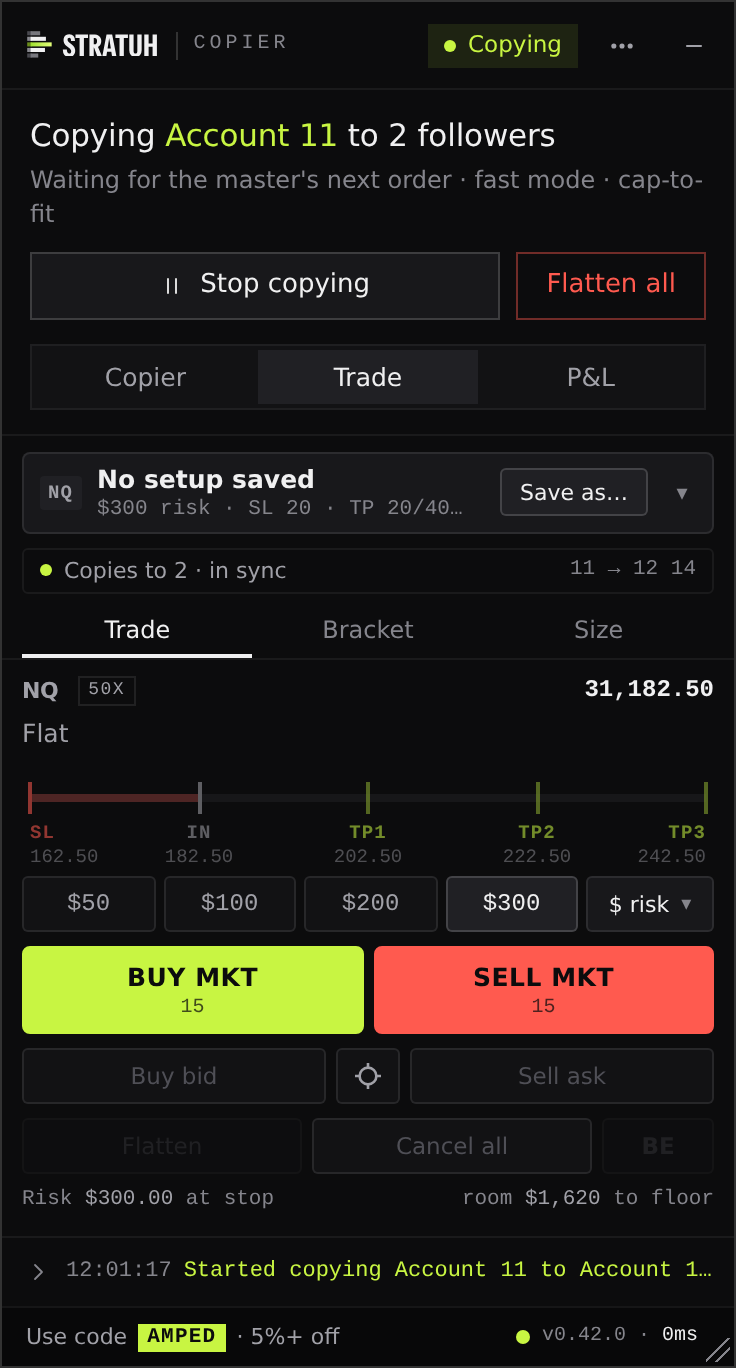
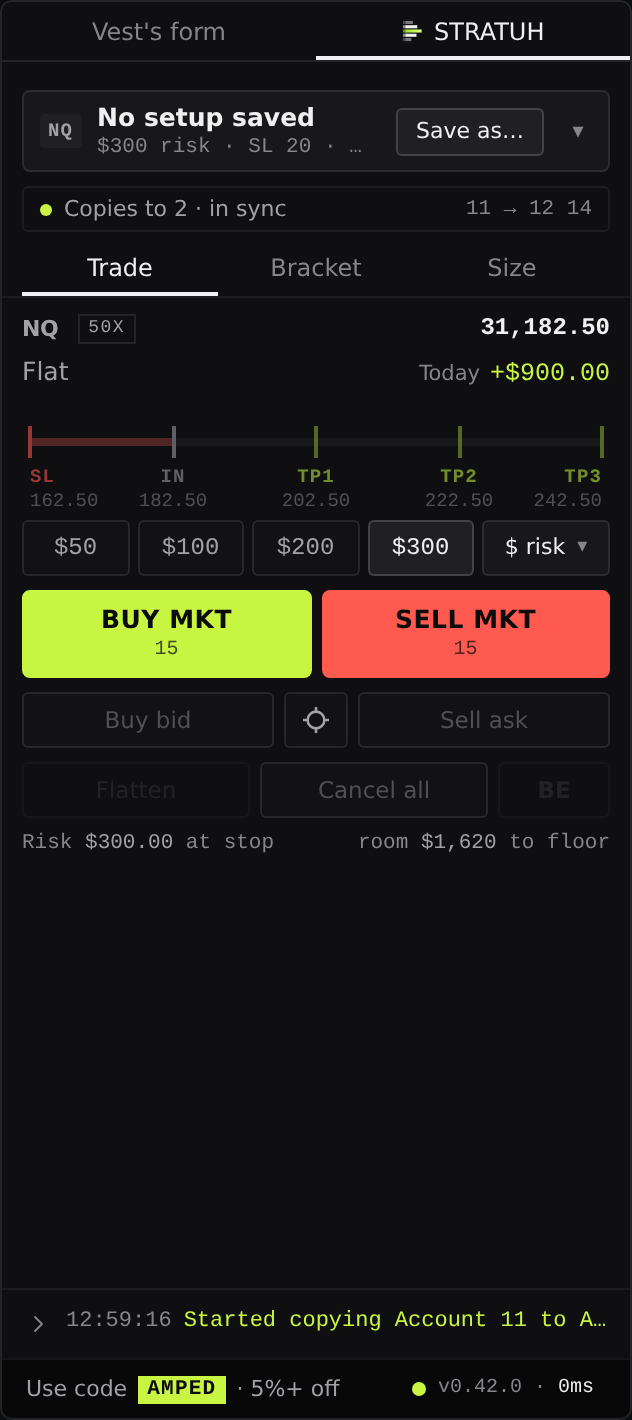
Docs update

diff --git a/docs/tutorial/index.html b/docs/tutorial/index.html
@@ -146,10 +146,10 @@ dd { margin: 0; font-size: 15.5px; }
 <header class="top">
   <div class="brand"><svg width="22" height="22" viewBox="0 0 24 24" aria-hidden="true"><defs><linearGradient id="poc" x1="0" x2="1"><stop offset="0" stop-color="#9fe02f"/><stop offset="1" stop-color="#e4ff7a"/></linearGradient></defs><rect x="1" y="1" width="10" height="3.4" fill="#77777d"/><rect x="1" y="5.65" width="16" height="3.4" fill="currentColor"/><rect x="1" y="10.3" width="22" height="3.4" fill="url(#poc)"/><rect x="1" y="14.95" width="15" height="3.4" fill="currentColor"/><rect x="1" y="19.6" width="8" height="3.4" fill="#77777d"/></svg><div class="eyebrow">[ Tampermonkey userscript · Vest Markets ]</div></div>
   <h1>STRATUH Copier</h1>
-  <p class="lede">Trade one Vest account and have the same trade placed on your other accounts, live, from inside the Vest page. It also adds a Trade tab where you set your stop and targets in points. Formerly Vest Copier: same script, same link, new look.</p>
-  <div class="video"><iframe src="https://www.youtube-nocookie.com/embed/mFJGsJ0IInY" title="STRATUH Copier tutorial video" loading="lazy" allow="accelerometer; encrypted-media; gyroscope; picture-in-picture; fullscreen" allowfullscreen></iframe></div>
-  <p class="video-link">Prefer YouTube? <a href="https://youtu.be/mFJGsJ0IInY">Watch the tutorial there</a> (10 minutes).</p>
-  <div class="meta"><span class="pill">v0.42.0</span><span class="pill">next.vestmarkets.com</span><span class="pill">5-minute setup</span><a class="pill" href="https://github.com/xAmped/Vest-Copier">github.com/xAmped/Vest-Copier</a></div>
+  <p class="lede">Trade one Vest account and have the same trade placed on your other accounts, live, from inside the Vest page. Its order panel sits in Vest's own order card, with your stop and targets in points. Formerly Vest Copier: same script, same link, new look.</p>
+  <div class="video"><iframe src="https://www.youtube-nocookie.com/embed/2halihW34fc" title="STRATUH Copier video" loading="lazy" allow="accelerometer; encrypted-media; gyroscope; picture-in-picture; fullscreen" allowfullscreen></iframe></div>
+  <p class="video-link">Prefer YouTube? <a href="https://youtu.be/2halihW34fc">Watch it there</a> (5 minutes). It shows the install and a first trade; this page goes through every part.</p>
+  <div class="meta"><span class="pill">v0.42.0</span><span class="pill">next.vestmarkets.com</span><span class="pill">5-minute setup</span><a class="pill" href="https://stratuh.com">stratuh.com</a><a class="pill" href="https://github.com/xAmped/Vest-Copier">github.com/xAmped/Vest-Copier</a></div>
 </header>
 
 <div class="wrap">
@@ -157,7 +157,7 @@ dd { margin: 0; font-size: 15.5px; }
     <ol>
       <li><a href="#install">Install</a></li>
       <li><a href="#copy">Copy your first trade</a></li>
-      <li><a href="#trade">The Trade tab</a></li>
+      <li><a href="#trade">The order panel</a></li>
       <li><a href="#sizing">Sizing</a></li>
       <li><a href="#copies">What gets copied</a></li>
       <li><a href="#safety">Safety controls</a></li>
@@ -178,8 +178,9 @@ dd { margin: 0; font-size: 15.5px; }
         <li><div>Add the <b>Tampermonkey</b> extension from your browser's store: <a href="https://chromewebstore.google.com/detail/tampermonkey/dhdgffkkebhmkfjojejmpbldmpobfkfo">Chrome / Brave</a>, <a href="https://microsoftedge.microsoft.com/addons/detail/tampermonkey/iikmkjmpaadaobahmlepeloendndfphd">Edge</a> or <a href="https://addons.mozilla.org/firefox/addon/tampermonkey/">Firefox</a>. Click <b>Add</b> on the store page.<span class="why">Use these store pages, not download buttons on other sites: some of those are ads for unrelated software.</span></div></li>
         <li><div><b>Chrome, Edge, Brave:</b> go to <code>chrome://extensions</code>, open Tampermonkey's <b>Details</b> page and switch <b>Allow User Scripts</b> on.<span class="why">Without this, Tampermonkey installs the script but never runs it. Older browser versions call it Developer mode (top-right of the extensions page). Firefox doesn't need it.</span></div></li>
         <li><div>Open the install link: <a href="https://github.com/xAmped/Vest-Copier/releases/latest/download/vest-copier.user.js">vest-copier.user.js on GitHub</a>. Tampermonkey shows an install page; click <b>Install</b>. From then on it keeps itself up to date.<span class="why">No link? Click the Tampermonkey icon, <b>Create a new script</b>, delete the template, paste the entire contents of <code>vest-copier.user.js</code> and press <b>Ctrl+S</b>. Paste the text itself: a .txt file opened in the browser isn't installed.</span></div></li>
-        <li><div>Open or refresh <b>next.vestmarkets.com</b> and log in. The <b>STRATUH Copier</b> panel appears on Vest's chart, on the left, and stays inside the chart. Drag its header to move it and its bottom-right corner to resize it. <b>⋯ → Docked on chart</b> lets it float anywhere; minimised, it's a small pill with the state and one button (Flatten while copying).</div></li>
+        <li><div>Open or refresh <b>next.vestmarkets.com</b> and log in. The copier appears in two places: a slim <b>bar in Vest's header</b> and the <b>order panel in Vest's order card</b> (the right-hand column). A switch on top of the card picks <b>Vest's form</b> or <b>STRATUH</b>, so Vest's own form is one click away.<span class="why">In a window narrower than 768 px, or on Vest's other pages, it's a floating panel on the chart instead; <b>Menu › Float the panel instead</b> keeps it floating, and its <b>⋯</b> menu has <b>Back in Vest's order card</b>.</span></div></li>
       </ol>
+      <figure><div class="shot"><img src="img/bar.png" alt="The copier's bar in Vest's header: Copying live, the master 11 copying to 12 and 14, Today's P&amp;L, Turn off, Flatten all and Menu." width="683"></div><figcaption>The bar in Vest's header: copying live, who copies to whom, today, Turn off, Flatten all, Menu.</figcaption></figure>
       <div class="callout tip"><p><b>Updating:</b> when there's a newer version, a row above the activity line shows <b>Install</b>. Click it, click <b>Update</b> on Tampermonkey's page, then come back to the Vest tab: it reloads by itself. Do it while you're flat. Your settings are kept.</p></div>
     </section>
 
@@ -188,64 +189,65 @@ dd { margin: 0; font-size: 15.5px; }
       <div class="split">
         <div>
           <ol class="steps">
-            <li><div>The <b>Copier</b> tab opens on <b>Choose accounts</b>. Pick the account you'll trade with the round button: that's the <b>master</b>.</div></li>
-            <li><div>Tick each account that should copy it. Those are the <b>followers</b>. Click <b>Done</b>.<span class="why">By default (Cap-to-fit) each follower is sized to its own equity, so sizes can differ. For identical contracts everywhere, pick 1:1 under Sizing (see Sizing). Change them later with <b>Edit</b>, while not copying.</span></div></li>
-            <li><div>Set your leverage on Vest the way you'll trade, then click <b>Start copying</b>. On first use, read the risk terms, tick the box and click <b>Accept and continue</b>.<span class="why">Starting checks every account, then sets each follower's leverage to match the master. It works from any tab.</span></div></li>
-            <li><div>Trade the master as you normally would, from Vest's order ticket or from the Trade tab. The sentence on top says who copies to whom, and the line under it the last copy ("4 of 4 filled"). The activity line at the bottom shows each order, then one line per follower and a fill summary such as <code>Fills 3/3 confirmed · avg slip 0.25 pt · max 0.50 pt</code>. Click it for the full log.</div></li>
-            <li><div>Click <b>Stop copying</b> when you're finished. It does not close anything.</div></li>
+            <li><div>The first time, <b>Accounts</b> opens on <b>Choose accounts</b>. Pick the account you'll trade with the round button: that's the <b>master</b>.</div></li>
+            <li><div>Tick each account that should copy it. Those are the <b>followers</b>. Click <b>Done</b>.<span class="why">By default (Cap-to-fit) each follower is sized to its own equity, so sizes can differ. For identical contracts everywhere, pick 1:1 under Sizing (see Sizing). Change them later with <b>Edit</b> in Accounts (<b>Menu › Accounts</b>, or click the copying state in the bar), while not copying.</span></div></li>
+            <li><div>Set your leverage on Vest the way you'll trade, then click <b>Turn on copying</b> (in Accounts) or <b>Turn on</b> (in the bar). On first use, read the risk terms, tick the box and click <b>Accept and continue</b>.<span class="why">Turning on checks every account, then sets each follower's leverage to match the master.</span></div></li>
+            <li><div>Trade the master as you normally would, from the order panel or Vest's own form. The bar says <b>Copying live</b> and who copies to whom; the line on top of the order panel says whether the followers are in sync ("2 of 2 match"). The activity line at the bottom of the panel shows each order, then one line per follower and a fill summary such as <code>Fills 3/3 confirmed · avg slip 0.25 pt · max 0.50 pt</code>. Click it for the full log.</div></li>
+            <li><div>Click <b>Turn off</b> when you're finished. It does not close anything.</div></li>
           </ol>
         </div>
         <figure>
-          <div class="shot"><img src="img/accounts.png" alt="The Copier tab: Copying Account 11 to 2 followers, the master on top and two followers, one line each with the room to the floor." width="340"></div>
-          <figcaption>Copying the master to two followers.</figcaption>
+          <div class="shot"><img src="img/accounts.png" alt="Accounts in Vest's order card: Copying Account 11 to 2 followers, Turn off copying and Flatten all, the master on top and two followers, one line each with the room to the floor." width="316"></div>
+          <figcaption>Accounts: who copies to whom, and Turn on / off.</figcaption>
         </figure>
       </div>
-      <h3>When Start copying refuses</h3>
+      <h3>When Turn on refuses</h3>
       <p>The log names the account and the reason. Starting is allowed when everyone is flat, or when the master and followers already hold the <b>same trade</b> (same market, same direction): that trade is adopted and managed from then on. It refuses when a follower is in the opposite direction, holds a trade the master doesn't, or has a resting order. Fix that account on Vest and start again.</p>
       <p>A follower with less than 30% of its drawdown left shows "Only $310 to its floor" in amber. It still copies; it's a heads-up.</p>
     </section>
 
     <section id="trade">
-      <h2><span class="n">03</span>The Trade tab</h2>
-      <p class="sub">An order ticket built around points, for the market Vest is showing. It trades the master; while copying, followers copy it like any other master order.</p>
+      <h2><span class="n">03</span>The order panel</h2>
+      <p class="sub">In Vest's order card, for the market Vest is showing. It trades the master; while copying, followers copy it like any other master order. Three tabs: <b>Trade</b>, <b>Bracket</b> and <b>Size</b>.</p>
       <div class="split">
         <div>
           <div class="table-wrap">
             <table>
               <thead><tr><th>Part</th><th>What it does</th></tr></thead>
               <tbody>
-                <tr><td>Margin bar</td><td>How much of Vest's buying power your position uses, and how many contracts are left. The striped part previews the order you're about to send.</td></tr>
-                <tr><td>Risk bar</td><td>What your stop would lose, fees included, against the room left before your floor. Amber near the limit, red past it. Both bars use the tightest account.</td></tr>
-                <tr><td>Order</td><td><b>Market</b>, <b>Limit</b> or <b>Stop</b>. With Limit or Stop, one click on the chart places it. <b>Lines</b> hides or shows your bracket on the chart.</td></tr>
-                <tr><td>Size</td><td><b>Qty</b>, <b>Risk $</b> (the panel sizes the order so hitting your stop loses that amount; $1 per point per contract) <b>%</b> (a share of the max: 25 is a quarter) or <b>Max</b>: the most the account can open, the same as Vest's 100%.</td></tr>
-                <tr><td>Minis, micros</td><td>On NQ, ES and RTY, size in <b>Units</b>, <b>Micros</b> or <b>Minis</b>, like Vest's own order form. An NQ micro is 2 units, an ES or RTY micro 5; a mini is 10 micros. Sizes stay whole.</td></tr>
-                <tr><td>Price ladder</td><td>Targets, entry, stop and the fail price in one table, for the side you're about to trade: point at <b>Buy</b> or <b>Sell</b> and it shows that side's prices. Type each level's points in the middle. The <b>×</b> on the stop or a target removes it: both are optional. The same bracket is drawn on Vest's chart as you set it; drag a line to change its points.</td></tr>
-                <tr><td>Split</td><td>One line under the ladder; <b>Change</b> picks <b>Start</b> (most on TP1), <b>Even</b> or <b>End</b> (most on the last target). <b>+ target</b> adds another.</td></tr>
-                <tr><td>Auto BE</td><td>The next line; <b>Change</b> picks <b>After TP1</b> or <b>+pts</b>, which move the stop to your entry. <b>Lock</b> adds points of profit beyond it (0 = exact breakeven).</td></tr>
+                <tr><td>Setup</td><td>The bar on top says what your next order is, for example 3 mic · SL 20 · TP 20/40/60 · BE TP1. Click it for your <b>saved setups</b> on this market: pick one and the size, stop, targets, split and breakeven are all set. <b>Save as…</b> names a new one; change a saved one and <b>Save</b> keeps it.</td></tr>
+                <tr><td>Sync line</td><td>Whether copying is in sync: plain while all is well, amber naming the account when a follower's size or stop differs or its copy is missing. Click it for Accounts.</td></tr>
+                <tr><td>Quantity buttons</td><td>Five sizes, then what they count: <b>micros</b>, <b>minis</b>, <b>contracts</b>, <b>% of max</b> (a share of the most the account can open, Vest's 100%) or <b>$ risk</b> (sized so hitting your stop loses that amount). Change what they count and their values on the <b>Size</b> tab. An NQ micro is 2 units ($2 a point), an ES or RTY micro 5; a mini is 10 micros.</td></tr>
+                <tr><td>BUY / SELL MKT</td><td>A market order with your stop and targets. The line under each says what it sends. In a trade, the same side <b>adds</b> and the other side <b>reduces</b>, by the share picked under Add or reduce: never a reversal.</td></tr>
+                <tr><td>Buy bid / Sell ask</td><td>A limit at the bid or the ask, with your stop and targets (flat, while Vest's order book is coming through).</td></tr>
+                <tr><td>Crosshair</td><td>A <b>buy or sell limit</b> or <b>stop entry</b> placed by one click on the chart (below).</td></tr>
+                <tr><td>Flatten · Cancel all · BE</td><td>Close this market's position; cancel your waiting limits and stop entries on it; move the stop to breakeven. Dim when there's nothing to act on.</td></tr>
+                <tr><td>Bracket tab</td><td>Your <b>stop</b> (on or off), <b>targets</b> (up to 5, + Add a target, × removes one) and how the size <b>splits</b> across them (<b>Even</b>, <b>More on TP1</b>, <b>More on the last</b>), then <b>Move stop to breakeven</b>: <b>Off</b>, <b>After TP1</b> or <b>At + points</b>, and how many points past the entry it locks (0 = exact breakeven). Each row shows what it costs or makes; the line at the bottom, what a stop-out costs and the room to your floor.</td></tr>
+                <tr><td>Size tab</td><td>What the quantity buttons count and their values, and what you can open: Vest's leverage, the most you can open now, the margin in use. Leverage is Vest's own: change it on Vest's form.</td></tr>
               </tbody>
             </table>
           </div>
-          <p>Each market keeps its own size, stop and targets: switch Vest's chart to ES and the tab switches to ES with your ES numbers. The panel warns when a size is more than the account can open, or when a stop-out would take the account past its floor before the stop fills. Right after a market order fills, the stop and targets move to exactly your points from the price you actually got. They're placed as Vest's own stop-loss and take-profit orders, so they still work if you close the tab.</p>
+          <p>Each market keeps its own size, stop and targets: switch Vest's chart to ES and the panel switches to ES with your ES numbers. The panel warns when a size is more than the account can open, or when a stop-out would take the account past its floor before the stop fills. Right after a market order fills, the stop and targets move to exactly your points from the price you actually got. They're placed as Vest's own stop-loss and take-profit orders, so they still work if you close the tab. Flat, a dim bar previews your bracket in dollars, and the same bracket is drawn on Vest's chart; drag a line to change its points.</p>
           <h3>Limits and stop orders on the chart</h3>
-          <p>Pick <b>Limit</b> or <b>Stop</b>, click <b>Buy</b> or <b>Sell</b>, and the bracket follows your pointer on the chart; one click places the order there (or type the price and press <b>Place</b>; <b>Esc</b> cancels). A limit goes to Vest with its stop and targets. A <b>stop order</b> (a buy stop over the market, a sell stop under it) is kept by the copier, since Vest doesn't have them: once your level trades it sends the order, and followers copy it. A buy stop and a sell stop can wait together, and the first to fire cancels the other; the optional <b>Slip</b> caps how far past your level it may fill. Both show under <b>Waiting orders</b> with an <b>×</b> to cancel.</p>
+          <p>Click the <b>crosshair</b> and pick <b>Buy limit</b>, <b>Sell limit</b>, <b>Buy stop</b> or <b>Sell stop</b>: the bracket follows your pointer on the chart, and one click places the order there (or type the price and press <b>Place</b>; <b>Esc</b> cancels, and so does leaving the Trade tab). A limit goes to Vest with its stop and targets. A <b>stop order</b> (a buy stop over the market, a sell stop under it) is kept by the copier, since Vest doesn't have them: once your level trades it sends the order, and followers copy it. A buy stop and a sell stop can wait together, and the first to fire cancels the other; the optional <b>Slip</b>, shown while you place one, caps how far past your level it may fill. Both show under the buttons with an <b>×</b> to cancel; while one waits, the chart shows only that order's lines.</p>
           <div class="callout warn"><p><b>Stop orders live in the Vest tab.</b> They only fire while it's open; a reload or closing it cancels them, and the log says so.</p></div>
         </div>
         <div>
           <figure>
-            <div class="shot"><img src="img/trade.png" alt="The Trade tab: margin and risk bars, Market, Limit or Stop with the Lines switch, Risk $300 sized to 15 contracts, the Buy side of the price ladder with three targets, entry, stop and fail price, and Buy and Sell." width="340"></div>
-            <figcaption>Risk $300 at a 20-pt stop, targets 20 / 40 / 60.</figcaption>
+            <div class="shot"><img src="img/trade.png" alt="The Trade tab in Vest's order card: the setup bar, the sync line, the bracket preview, quantity buttons in $ risk, BUY MKT and SELL MKT, Buy bid, the crosshair and Sell ask, Flatten, Cancel all and BE." width="316"></div>
+            <figcaption>Flat: $300 risk at a 20-pt stop, targets 20 / 40 / 60.</figcaption>
           </figure>
           <figure>
-            <div class="shot"><img src="img/trade-in.png" alt="The Trade tab in a trade: long 15 NQ with live P&amp;L, the stop, entry, price and targets on one bar, Breakeven and Close, and Add or reduce." width="340"></div>
-            <figcaption>In a trade: your bracket on one bar, Breakeven and Close.</figcaption>
+            <div class="shot"><img src="img/trade-in.png" alt="The Trade tab in a trade: long 15 NQ with live P&amp;L, the stop, entry, price and targets on one bar, BUY and SELL as add and reduce, Flatten and BE, and Add or reduce." width="316"></div>
+            <figcaption>In a trade: your bracket on one bar, BUY / SELL add and reduce.</figcaption>
           </figure>
         </div>
       </div>
       <h3>In a trade</h3>
-      <p>The position becomes the screen: live P&amp;L, your stop, entry, the price now and your targets drawn to scale on one bar, and the risk left before your floor. <b>+ Add stop</b> and <b>+ Add target</b> put one on the trade: click the chart where it goes, or press Enter for your saved points. Right-clicking the chart at a price does the same (<b>Add stop loss</b> or <b>Add take profit</b>). Targets split the position the way you placed the trade (Start, Even or End). <b>Breakeven</b> moves the stop to your average entry once price is clear of it. <b>Close</b> closes the master, and followers close with it while copying. <b>Add or reduce</b> opens chips for <b>25%</b>, <b>50%</b>, <b>100%</b> of your position or <b>MAX</b> (the most that fits your margin and keeps a stop-out above the floor), then <b>Add</b> or <b>Reduce</b>. Your stop stays where it is; your targets keep their prices and their sizes follow the new position. Move them on the chart.</p>
+      <p>The top of the Trade tab becomes the position: live P&amp;L, your stop, entry, the price now and your targets drawn to scale on one bar. Nothing else moves. <b>BUY</b> and <b>SELL</b> add and reduce; <b>Add or reduce</b> opens under the buttons with chips for <b>25%</b>, <b>50%</b>, <b>100%</b> of your position or <b>MAX</b> (the most that fits your margin and keeps a stop-out above the floor), then <b>Add</b> or <b>Reduce</b>. <b>BE</b> moves the stop to your average entry once price is clear of it. <b>Flatten</b> closes the master, and followers close with it while copying. On the <b>Bracket</b> tab, <b>+ Add stop</b> and <b>+ Add target</b> put one on the trade: click the chart where it goes, or press Enter for your saved points. Right-clicking the chart at a price does the same (<b>Add stop loss</b> or <b>Add take profit</b>). Targets split the position the way you placed the trade. Your stop stays where it is when you add or reduce; your targets keep their prices and their sizes follow the new position. Move them on the chart.</p>
       <div class="callout warn"><p><b>Auto BE runs in your browser.</b> Keep the Vest tab open for it to move your stop. It survives a page refresh and stops watching once the trade closes.</p></div>
       <h3>P&amp;L and Share</h3>
-      <p>The <b>P&amp;L</b> tab starts with <b>Today</b>: your P&amp;L since Vest's trading day began (20:00 ET), from Vest's own figures (a payout starts an account fresh). Then the total since start, what you keep after each profit split, and every account. <b>Share</b> turns your P&amp;L into a picture you can paste into X, Discord or a group chat: <b>Today</b> (the total, the day's curve and your trades), <b>One trade</b>, any profitable trade from the last 30 days on any of your accounts, with its exits and timeline, or <b>Payouts</b>, everything Vest has paid you with your last 8 weeks. <b>Copy image</b>, or <b>Save PNG</b>. <b>Hide amounts</b> shows % or points instead of dollars. No card shows account numbers, balances or logins.</p>
+      <p><b>Menu › P&amp;L and Share</b> starts with <b>Today</b>: your P&amp;L since Vest's trading day began (20:00 ET), from Vest's own figures (a payout starts an account fresh). Then the total since start, what you keep after each profit split, and every account. <b>Share</b> turns your P&amp;L into a picture you can paste into X, Discord or a group chat: <b>Today</b> (the total, the day's curve and your trades), <b>One trade</b>, any profitable trade from the last 30 days on any of your accounts, with its exits and timeline, or <b>Payouts</b>, everything Vest has paid you with your last 8 weeks. <b>Copy image</b>, or <b>Save PNG</b>. <b>Hide amounts</b> shows % or points instead of dollars. No card shows account numbers, balances or logins.</p>
     </section>
 
     <section id="sizing">
@@ -256,7 +258,7 @@ dd { margin: 0; font-size: 15.5px; }
       </div>
       <div class="formula">follower size = master size × (follower equity ÷ master equity)<br><span class="c">// only when scaling down: × 0.95 buffer, rounded down to the market's size step</span><br><span class="c">// within 0.5% of the master's equity: copied 1:1</span></div>
       <p>Example: a $25k master trading 1 NQ drives a $5k follower at about 0.19 NQ. Both lose the same share of their account if the stop is hit. An account too small to hold even the minimum size is skipped, with a line in the log saying so.</p>
-      <p><b>Fast mode</b> (Settings, on by default) sends the followers' orders (entries, closes, adds, stops and targets) the instant you send yours, instead of waiting for Vest to answer the master. <b>Auto-flatten</b> (off by default) closes followers left in a trade the master isn't in. Looks live under <b>⋯ → Appearance</b>: text size, the chart bracket, chart marks, session shading and the STRATUH theme.</p>
+      <p><b>Fast mode</b> (Settings, on by default) sends the followers' orders (entries, closes, adds, stops and targets) the instant you send yours, instead of waiting for Vest to answer the master. <b>Auto-flatten</b> (off by default) closes followers left in a trade the master isn't in. Looks live under <b>Menu › Appearance</b>: text size, the chart bracket, chart marks, session shading and the STRATUH theme.</p>
     </section>
 
     <section id="copies">
@@ -284,8 +286,8 @@ dd { margin: 0; font-size: 15.5px; }
     <section id="safety">
       <h2><span class="n">06</span>Safety controls</h2>
       <div class="cols2">
-        <div class="card"><h4>Stop copying</h4><p>Stops copying immediately. Open positions stay open.</p></div>
-        <div class="card"><h4>Flatten all</h4><p>Closes every position and cancels every order on <b>all</b> loaded accounts, instantly and with no confirmation. On every tab, and on the minimised pill while copying. Copying keeps running, so it's also a quick way out of a trade across every account.</p></div>
+        <div class="card"><h4>Turn off</h4><p>Stops copying immediately. Open positions stay open.</p></div>
+        <div class="card"><h4>Flatten all</h4><p>Closes every position and cancels every order on <b>all</b> loaded accounts, instantly and with no confirmation. Always in the bar in Vest's header, in Accounts, and on the floating panel's pill while copying. Copying keeps running, so it's also a quick way out of a trade across every account.</p></div>
         <div class="card"><h4>Fill check</h4><p>After each entry, the copier confirms every account actually filled. One that didn't is named in the log and dropped from that trade.</p></div>
         <div class="card"><h4>Paused</h4><p>If a version has a problem, I can pause new trades from GitHub while the fix ships. The panel says so at the top, often with an <b>Install</b> button. Trades already open keep copying their exits, and Flatten all works.</p></div>
         <div class="card"><h4>Site check</h4><p>When Vest updates its website, the copier checks itself: the panel shows the check for a few seconds (read-only), then says <b>All clear</b> and comes back. If something Vest changed breaks the copier, copying stays off until an update; use Vest's own panel meanwhile.</p></div>
@@ -299,22 +301,22 @@ dd { margin: 0; font-size: 15.5px; }
         <li>Start with the smallest size across every account, and confirm the fills line before trading bigger.</li>
         <li>Size so that losing on every account at the same time is survivable.</li>
         <li>Set your stop when you enter, so every account is protected from the first second.</li>
-        <li>Stop copying before placing a trade on the master that you don't want copied.</li>
-        <li>Changed leverage or market? Stop and start copying again so followers match.</li>
-        <li>Stop copying and go flat when you're done for the day.</li>
+        <li>Turn copying off before placing a trade on the master that you don't want copied.</li>
+        <li>Changed leverage or market? Turn copying off and on again so followers match.</li>
+        <li>Turn copying off and go flat when you're done for the day.</li>
       </ul>
     </section>
 
     <section id="trouble">
       <h2><span class="n">08</span>Troubleshooting</h2>
       <dl class="trouble">
-        <div><dt>The panel doesn't appear</dt><dd>Check that the script is enabled in Tampermonkey, that <b>Allow User Scripts</b> is on (step 2), and that you're on next.vestmarkets.com. Then refresh.</dd></div>
-        <div><dt>Can't tick a follower</dt><dd>It's a different size or type than the master. Pick <b>Cap-to-fit</b> under Sizing in Edit, or pick matching accounts.</dd></div>
-        <div><dt>"… did NOT fill"</dt><dd>Vest accepted the order but didn't execute it, usually because the account lacks margin for that size. The margin bar on the Trade tab shows how much fits.</dd></div>
-        <div><dt>Breakeven stays grey</dt><dd>Price has to be clear of your entry first, since Vest refuses a stop the price has already passed. Hover the button for the reason.</dd></div>
+        <div><dt>The panel doesn't appear</dt><dd>Check that the script is enabled in Tampermonkey, that <b>Allow User Scripts</b> is on (step 2), and that you're on next.vestmarkets.com. Then refresh. Seeing Vest's own form? Pick <b>STRATUH</b> on the switch at the top of the order card.</dd></div>
+        <div><dt>Can't tick a follower</dt><dd>It's a different size or type than the master. Pick <b>Cap-to-fit</b> under Sizing in Edit (in Accounts), or pick matching accounts.</dd></div>
+        <div><dt>"… did NOT fill"</dt><dd>Vest accepted the order but didn't execute it, usually because the account lacks margin for that size. The Size tab shows the most you can open.</dd></div>
+        <div><dt>BE stays grey</dt><dd>Price has to be clear of your entry first, since Vest refuses a stop the price has already passed. Hover the button for the reason.</dd></div>
         <div><dt>Amber status dot (bottom right)</dt><dd>The copier is checking itself after a Vest update. Give it a few seconds. Red means copying is off until a copier update: send the file from the log's <b>Download</b>.</dd></div>
         <div><dt>Need a hand</dt><dd>Ask in the <a href="https://discord.gg/Aa69y9KnM3">Discord</a>.</dd></div>
-        <div><dt>Something looks wrong</dt><dd><b>⋯ → Report a problem</b> (or <b>Get help</b> next to a problem), describe what happened and click <b>Save report &amp; open issue</b>. It saves one report file and opens a GitHub issue with your description filled in: drag the file in and submit. The file has no passwords or login tokens, and account ids are replaced by names.</dd></div>
+        <div><dt>Something looks wrong</dt><dd><b>Menu › Report a problem</b> (or <b>Get help</b> next to a problem), describe what happened and click <b>Save report &amp; open issue</b>. It saves one report file and opens a GitHub issue with your description filled in: drag the file in and submit. The file has no passwords or login tokens, and account ids are replaced by names.</dd></div>
       </dl>
     </section>
   </main>

diff --git a/README.md b/README.md
@@ -4,16 +4,17 @@
 [![downloads](https://img.shields.io/github/downloads/xAmped/Vest-Copier/total?style=flat-square&label=downloads&labelColor=0c0c0d&color=c8f542)](https://github.com/xAmped/Vest-Copier/releases)
 [![discord](https://img.shields.io/badge/discord-join-c8f542?style=flat-square&labelColor=0c0c0d)](https://discord.gg/Aa69y9KnM3)
 [![price](https://img.shields.io/badge/price-free-c8f542?style=flat-square&labelColor=0c0c0d)](LICENSE)
+[![website](https://img.shields.io/badge/website-stratuh.com-c8f542?style=flat-square&labelColor=0c0c0d)](https://stratuh.com)
 
 Trade one Vest account and your other accounts take the same trade, live. It's a Tampermonkey userscript that runs
 inside the [Vest Markets](https://next.vestmarkets.com) page, part of STRATUH, my trading tools. It used to be called
 Vest Copier: same script, same install link, new look.
 
-[![Watch the 10-minute tutorial video](docs/tutorial/img/tutorial-video.jpg)](https://youtu.be/mFJGsJ0IInY)
+[![Watch the 5-minute video](https://i.ytimg.com/vi/2halihW34fc/maxresdefault.jpg)](https://youtu.be/2halihW34fc)
 
 [![Install vest-copier.user.js](https://img.shields.io/badge/install-vest--copier.user.js-c8f542?style=for-the-badge&labelColor=0c0c0d)](https://github.com/xAmped/Vest-Copier/releases/latest/download/vest-copier.user.js)
 
-New here? Start with the [10-minute tutorial video](https://youtu.be/mFJGsJ0IInY), the [tutorial](https://xamped.github.io/Vest-Copier/tutorial/) or the
+New here? Start at [stratuh.com](https://stratuh.com) and the [5-minute video](https://youtu.be/2halihW34fc), or the
 [one-page quick start](docs/Vest-Copier-Quick-Start.pdf). Every button is in the [user guide](docs/USER-GUIDE.md).
 
 <table>
@@ -81,7 +82,7 @@ minutes:
    **Stop copying** stops; positions stay as they are.
 
 > [!TIP]
-> Stuck? Watch the [tutorial video](https://youtu.be/mFJGsJ0IInY) or ask in the [Discord](https://discord.gg/Aa69y9KnM3).
+> Stuck? Watch the [video](https://youtu.be/2halihW34fc) or ask in the [Discord](https://discord.gg/Aa69y9KnM3).
 
 ## The panel
 
